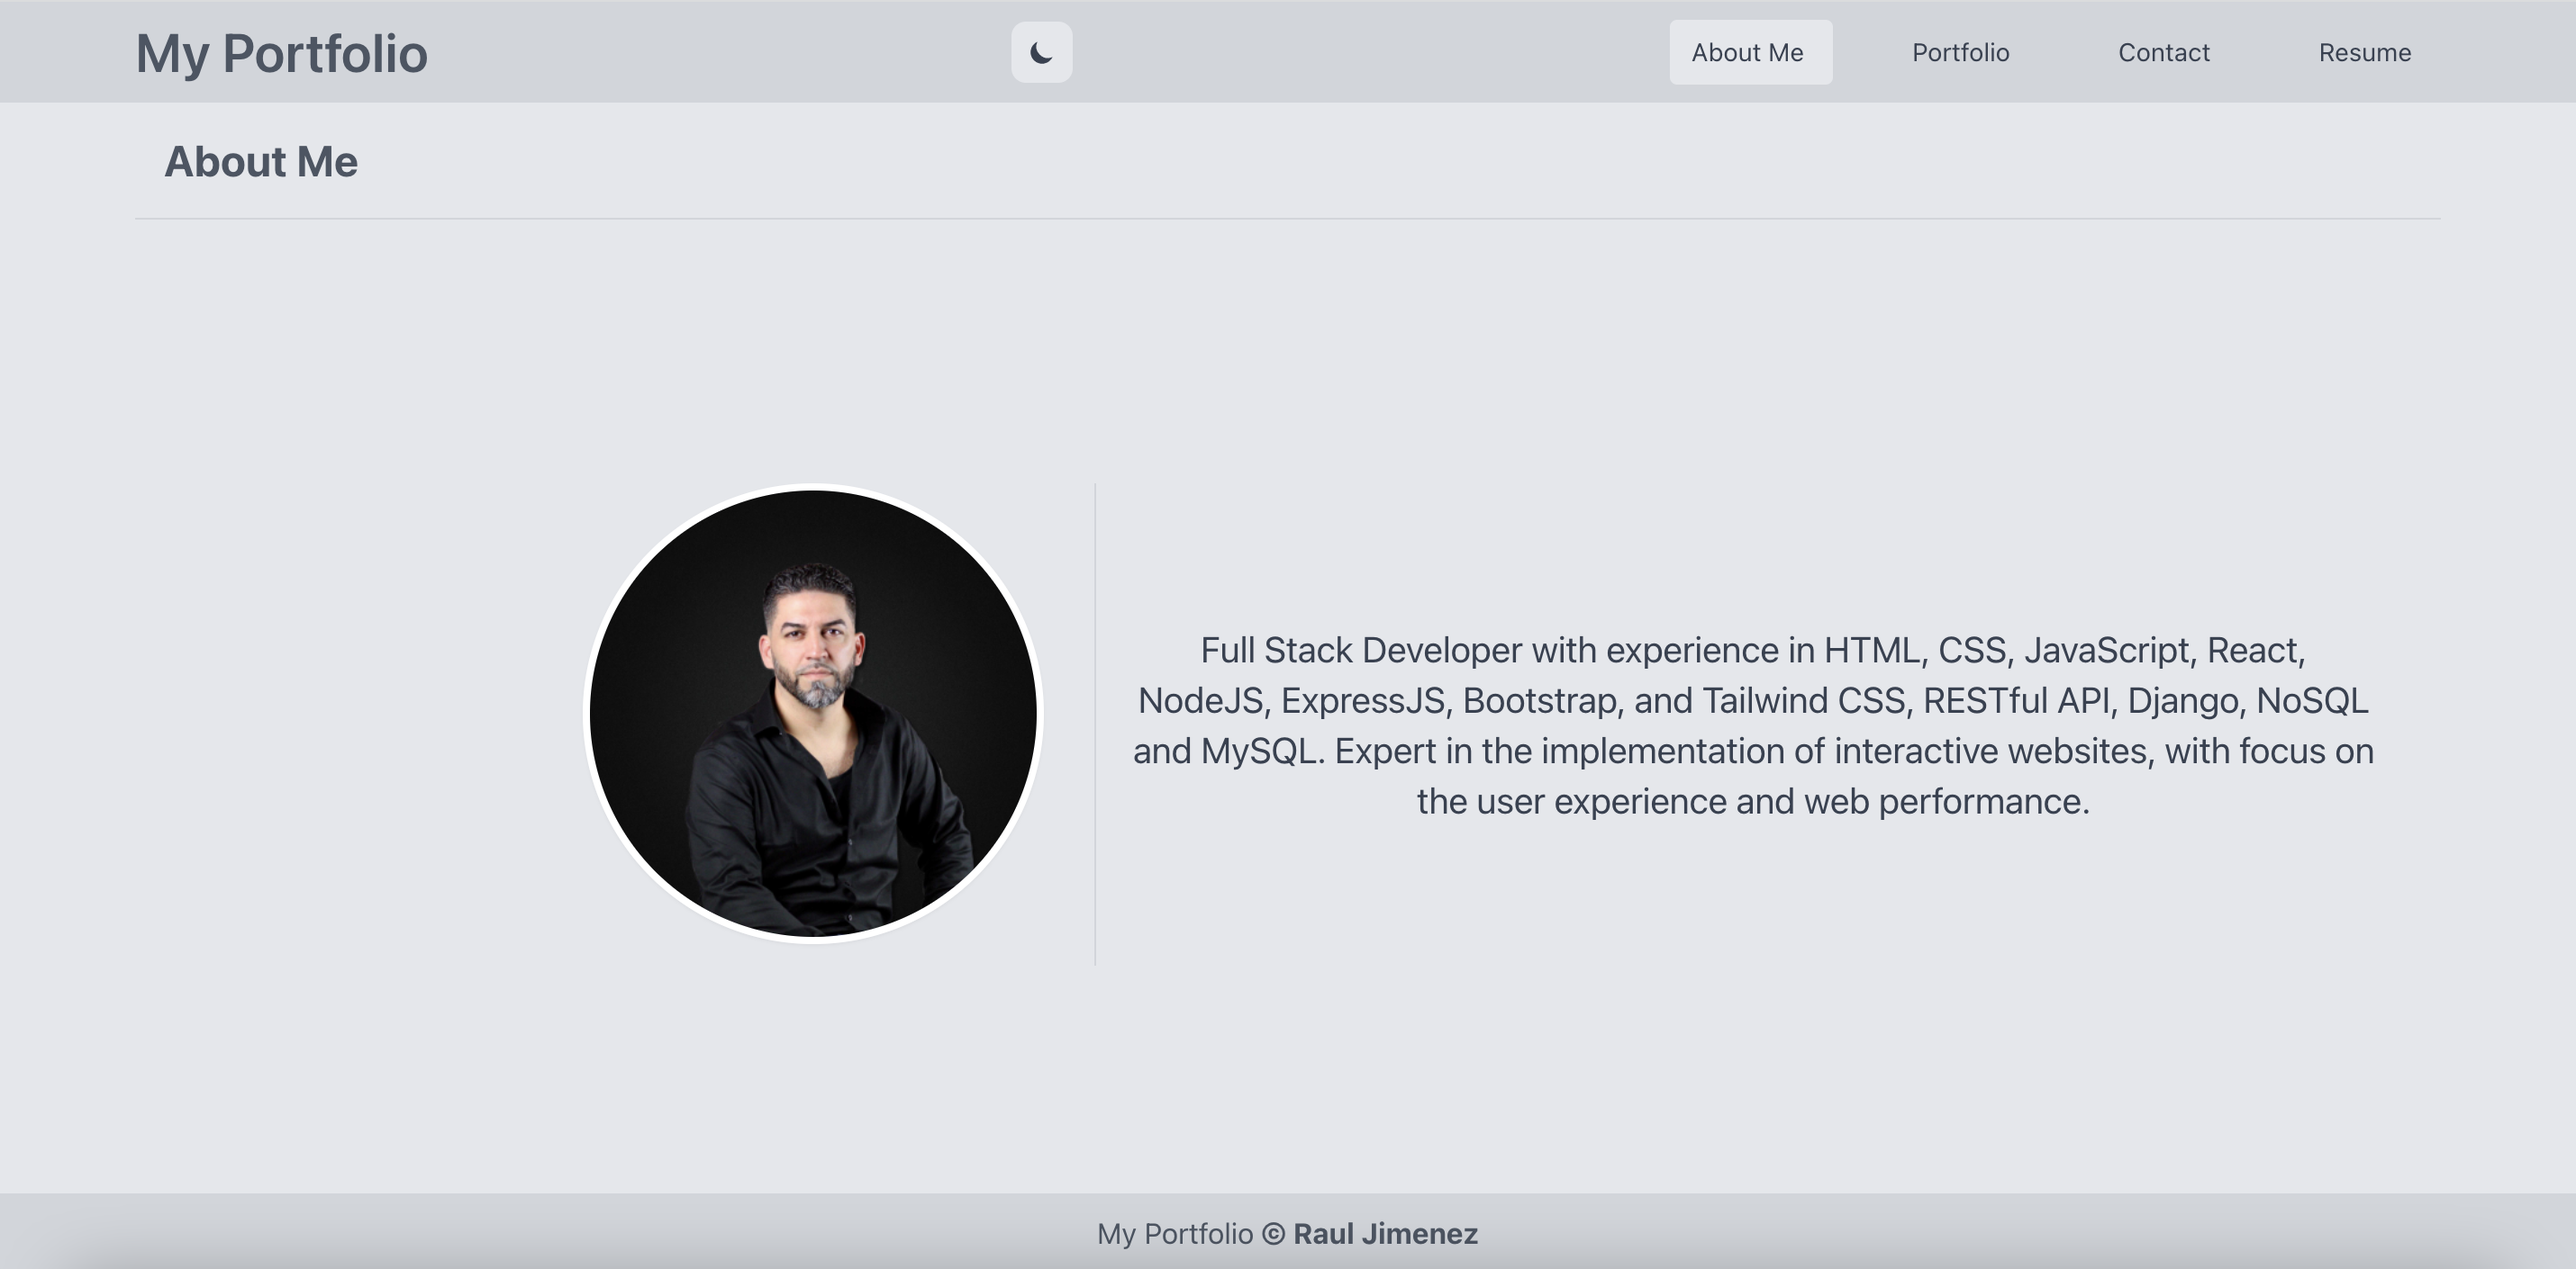
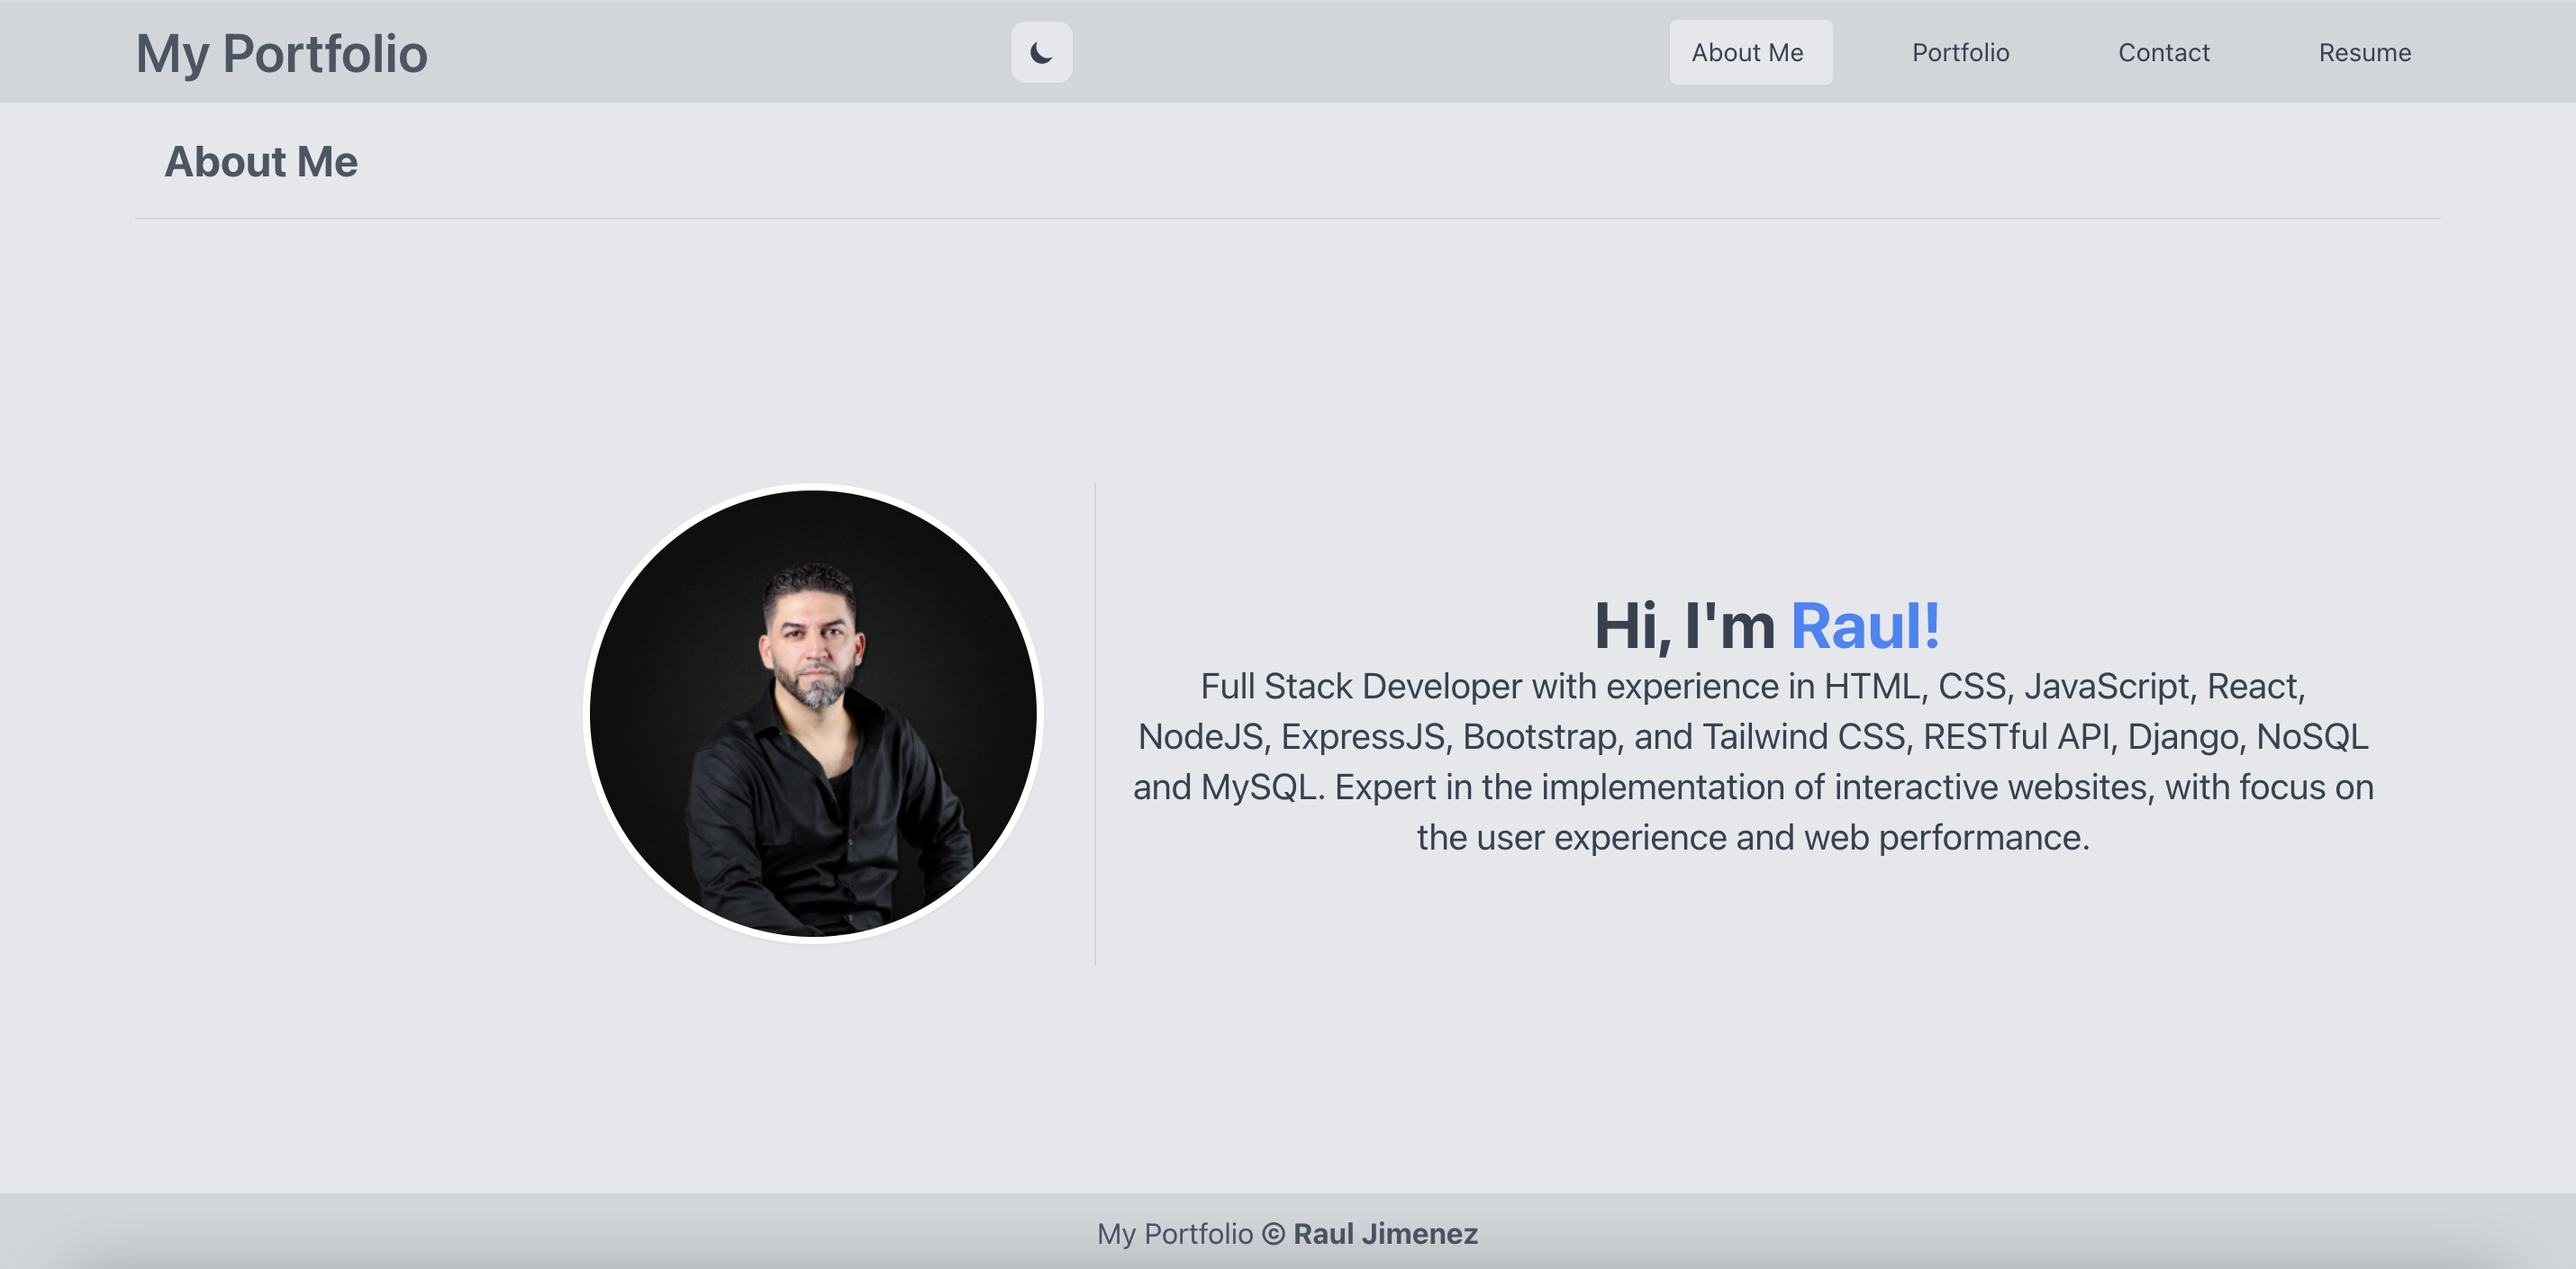
update readme file and add function on the navbar to close the mobile menu when click on link

Changed region(s): [[0.4357, 0.4681, 0.9336, 0.6865]]

diff --git a/src/component/Navbar/index.js b/src/component/Navbar/index.js
@@ -110,7 +110,7 @@ const Navbar = ({ currentSelect, setCurrentSelect }) => {
           <ul className="flex flex-col mt-4 md:flex-row md:space-x-8 md:mt-0 md:text-sm md:font-medium justify-center">
             <li>
               <button
-                onClick={() => setCurrentSelect("About Me")}
+                onClick={() => { setCurrentSelect("About Me");  setIsOpen(false); }}
                 className={`${
                   currentSelect === "About Me"
                   ? "text-gray-700 bg-gray-200 dark:bg-gray-600 dark:text-white rounded"
@@ -123,7 +123,7 @@ const Navbar = ({ currentSelect, setCurrentSelect }) => {
             </li>
             <li>
               <button
-                onClick={() => setCurrentSelect("Portfolio")}
+                onClick={() => {setCurrentSelect("Portfolio"); setIsOpen(false);}}
                 className={`${
                   currentSelect === "Portfolio"
                     ? "text-gray-700 bg-gray-200 dark:bg-gray-600 dark:text-white rounded"
@@ -136,7 +136,7 @@ const Navbar = ({ currentSelect, setCurrentSelect }) => {
             <li>
               <button
                 href="/"
-                onClick={() => setCurrentSelect("Contact")}
+                onClick={() => {setCurrentSelect("Contact"); setIsOpen(false);}}
                 className={`${
                   currentSelect === "Contact"
                   ? "text-gray-700 bg-gray-200 dark:bg-gray-600 dark:text-white rounded"
@@ -149,7 +149,7 @@ const Navbar = ({ currentSelect, setCurrentSelect }) => {
             <li>
               <button
                 href="/"
-                onClick={() => setCurrentSelect("Resume")}
+                onClick={() => {setCurrentSelect("Resume"); setIsOpen(false);}}
                 className={`${
                   currentSelect === "Resume"
                   ? "text-gray-700 bg-gray-200 dark:bg-gray-600 dark:text-white rounded"

diff --git a/src/component/AboutMe/index.js b/src/component/AboutMe/index.js
@@ -14,6 +14,9 @@ const AboutMe = () => {
             />
           </div>
           <div className="w-full md:w-7/12 my-auto text-gray-700 dark:text-gray-200">
+            <h1 className="text-4xl font-bold text-center">
+              Hi, I'm <span className="text-blue-500">Raul!</span>
+            </h1>
             <p className="text-center text-xl pl-5 pr-5 md:pr-9">
               Full Stack Developer with experience in HTML, CSS, JavaScript,
               React, NodeJS, ExpressJS, Bootstrap, and Tailwind CSS, RESTful
